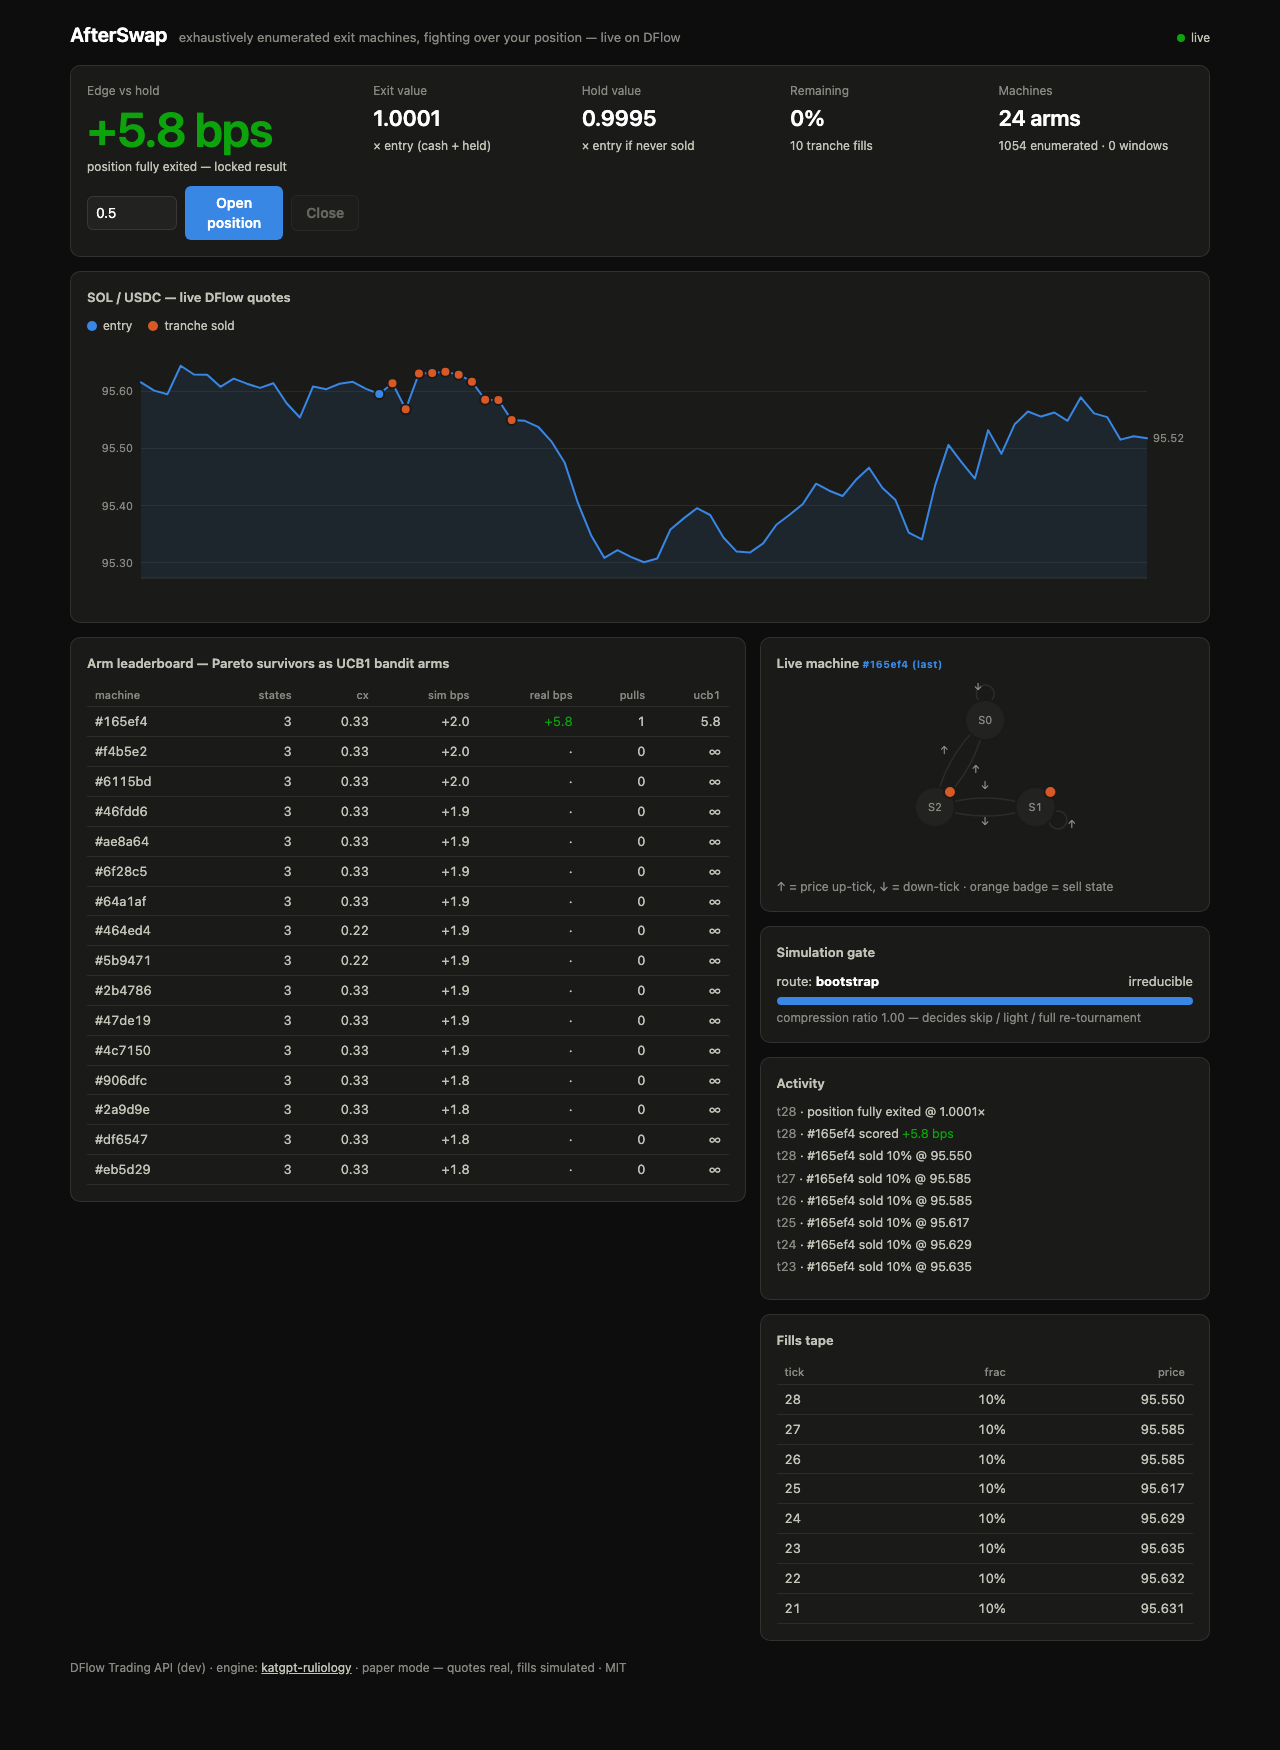
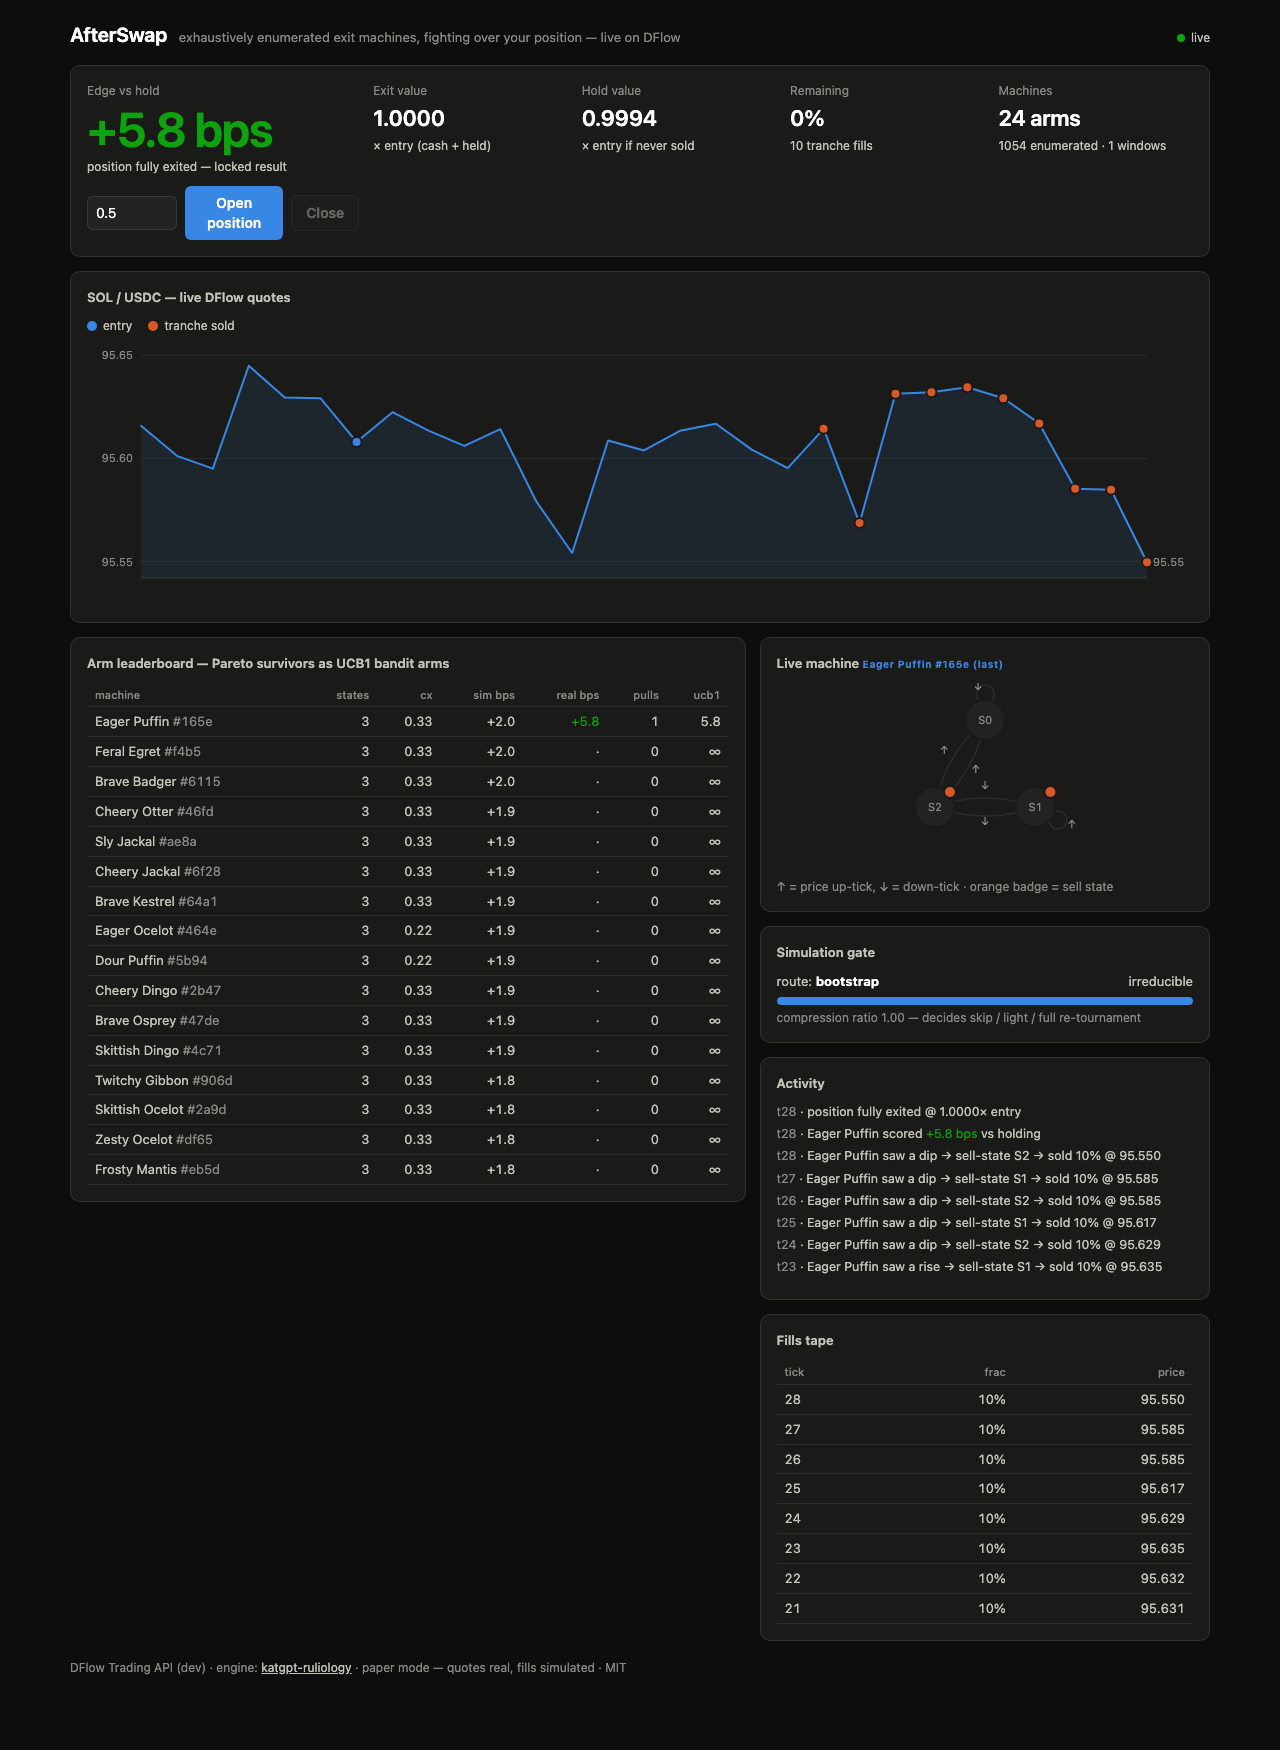
feat: named machines + plain-language feed — u64 ids as strings (JS precision fix)

diff --git a/web/index.html b/web/index.html
@@ -152,6 +152,7 @@
 <script>
 "use strict";
 const $ = (id) => document.getElementById(id);
+const hexTag = (idStr) => "#" + BigInt(idStr).toString(16).slice(0, 4);
 const fmt = (x, d = 4) => x == null ? "—" : x.toFixed(d);
 let last = null;
 
@@ -263,7 +264,7 @@ function renderBoard(s) {
       ? `<span class="${a.mean_reward_bps >= 0 ? "up" : "down"}">${a.mean_reward_bps >= 0 ? "+" : ""}${a.mean_reward_bps.toFixed(1)}</span>`
       : "·";
     return `<tr class="${live ? "live" : ""}">
-      <td>#${a.id.toString(16).slice(0, 6)}${a.generation > 0 ? ` <span class="chip ev">✦g${a.generation}</span>` : ""} ${live ? '<span class="chip">LIVE</span>' : ""}</td>
+      <td>${a.name} <span style="color:var(--muted)">${hexTag(a.id)}</span>${a.generation > 0 ? ` <span class="chip ev">✦g${a.generation}</span>` : ""} ${live ? '<span class="chip">LIVE</span>' : ""}</td>
       <td>${a.n_states}</td>
       <td>${a.complexity.toFixed(2)}</td>
       <td>${a.sim_edge_bps >= 0 ? "+" : ""}${a.sim_edge_bps.toFixed(1)}</td>
@@ -291,7 +292,7 @@ function renderFsm(s) {
   const armIdx = s.live_arm ?? s.last_arm;
   const arm = s.arms.find(a => a.index === armIdx);
   $("livechip").textContent = arm
-    ? `#${arm.id.toString(16).slice(0, 6)}${s.live_arm == null ? " (last)" : ""}` : "";
+    ? `${arm.name} ${hexTag(arm.id)}${s.live_arm == null ? " (last)" : ""}` : "";
   if (!arm) { svg.innerHTML = `<text x="${W / 2}" y="${H / 2}" text-anchor="middle">no machine driving yet</text>`; return; }
   const n = arm.n_states, cx = W / 2, cy = H / 2, R = n === 1 ? 0 : 58;
   const pos = Array.from({ length: n }, (_, i) => {
@@ -341,25 +342,25 @@ function renderGate(s) {
 }
 
 function feedLine(te, s) {
-  const e = te.event, armId = (i) => {
+  const e = te.event, armName = (i) => {
     const a = s.arms.find(x => x.index === i);
-    return a ? `#${a.id.toString(16).slice(0, 6)}` : `arm ${i}`;
+    return a ? a.name : `machine ${i}`;
   };
   switch (e.type) {
     case "tournament":
-      return `tournament (${e.route}): ${e.strategies} machines → ${e.arms} arms`;
+      return `tournament (${e.route}): ${e.strategies} machines fought → ${e.arms} got seats`;
     case "arm_selected":
-      return `${armId(e.arm)} takes the seat`;
+      return `<b>${e.name}</b> takes the seat`;
     case "window_closed": {
       const r = e.reward_bps, cls = r >= 0 ? "up" : "down";
-      return `${armId(e.arm)} scored <span class="${cls}">${r >= 0 ? "+" : ""}${r.toFixed(1)} bps</span>`;
+      return `${armName(e.arm)} scored <span class="${cls}">${r >= 0 ? "+" : ""}${r.toFixed(1)} bps</span> vs holding`;
     }
     case "tranche_filled":
-      return `${armId(e.arm)} sold ${(e.frac * 100).toFixed(0)}% @ ${e.price.toFixed(3)}`;
+      return `${armName(e.arm)} saw a ${e.input === 1 ? "rise" : "dip"} → sell-state S${e.state} → sold ${(e.frac * 100).toFixed(0)}% @ ${e.price.toFixed(3)}`;
     case "evolved":
-      return `✦ evolved gen${e.generation}: #${e.parent_id.toString(16).slice(0, 6)} → #${e.child_id.toString(16).slice(0, 6)} (${e.sim_edge_bps >= 0 ? "+" : ""}${e.sim_edge_bps.toFixed(1)} bps sim)`;
+      return `✦ ${e.parent_name} bred <b>${e.child_name}</b> (gen ${e.generation}, ${e.sim_edge_bps >= 0 ? "+" : ""}${e.sim_edge_bps.toFixed(1)} bps sim)`;
     case "position_closed":
-      return `position fully exited @ ${e.final_value_norm.toFixed(4)}×`;
+      return `position fully exited @ ${e.final_value_norm.toFixed(4)}× entry`;
     default:
       return e.type;
   }

diff --git a/crates/afterswap-engine/src/bandit.rs b/crates/afterswap-engine/src/bandit.rs
@@ -18,7 +18,10 @@ pub struct ExitBandit {
 #[derive(Debug, Clone, Serialize)]
 pub struct ArmSnapshot {
     pub index: usize,
-    pub id: u64,
+    /// Decimal string — u64 ids overflow JS number precision.
+    pub id: String,
+    /// Deterministic human name derived from the id.
+    pub name: String,
     pub n_states: u8,
     pub transitions: Vec<[u8; 2]>,
     pub outputs: Vec<u8>,
@@ -95,7 +98,8 @@ impl ExitBandit {
                 let n = s.n_states() as usize;
                 ArmSnapshot {
                     index: i,
-                    id: s.id(),
+                    id: s.id().to_string(),
+                    name: machine_name(s.id()),
                     n_states: s.n_states(),
                     transitions: s.transitions()[..n].to_vec(),
                     outputs: s.outputs()[..n].to_vec(),
@@ -109,4 +113,24 @@ impl ExitBandit {
             })
             .collect()
     }
+}
+
+/// Deterministic human-friendly machine name from the FSM id.
+/// 32×32 = 1,024 combos; the UI appends a short hex tag for uniqueness.
+pub fn machine_name(id: u64) -> String {
+    const ADJ: [&str; 32] = [
+        "Patient", "Jumpy", "Stoic", "Greedy", "Cautious", "Bold", "Sleepy", "Twitchy",
+        "Calm", "Feral", "Humble", "Sly", "Steady", "Nervous", "Brave", "Quiet",
+        "Eager", "Grumpy", "Gentle", "Rowdy", "Prudent", "Wily", "Sturdy", "Skittish",
+        "Cheery", "Dour", "Nimble", "Stubborn", "Mellow", "Zesty", "Frosty", "Sunny",
+    ];
+    const ANIMAL: [&str; 32] = [
+        "Mantis", "Otter", "Falcon", "Badger", "Gecko", "Heron", "Wombat", "Lynx",
+        "Puffin", "Marmot", "Viper", "Ibis", "Stoat", "Tapir", "Osprey", "Newt",
+        "Quokka", "Shrike", "Beetle", "Civet", "Dingo", "Egret", "Ferret", "Gibbon",
+        "Hornet", "Jackal", "Kestrel", "Lemur", "Magpie", "Numbat", "Ocelot", "Pangolin",
+    ];
+    let adj = ADJ[(id % 32) as usize];
+    let animal = ANIMAL[((id >> 8) % 32) as usize];
+    format!("{adj} {animal}")
 }

diff --git a/crates/afterswap-engine/src/engine.rs b/crates/afterswap-engine/src/engine.rs
@@ -36,6 +36,10 @@ pub enum EngineEvent {
         price: f64,
         frac: f64,
         remaining: f64,
+        /// FSM state after the transition that emitted this sell.
+        state: u8,
+        /// Tick direction the machine saw: 1 = up, 0 = down/flat.
+        input: u8,
     },
     /// The live evaluation window closed; the driving arm was rewarded.
     WindowClosed {
@@ -44,8 +48,13 @@ pub enum EngineEvent {
         pulls: u32,
     },
     /// A new arm took over the live position.
-    ArmSelected { arm: usize, fsm_id: u64 },
-    Evolved { parent_id: u64, child_id: u64, generation: u32, sim_edge_bps: f64 },
+    ArmSelected { arm: usize, fsm_id: u64, name: String },
+    Evolved {
+        parent_name: String,
+        child_name: String,
+        generation: u32,
+        sim_edge_bps: f64,
+    },
     /// A (re-)tournament ran and the arm set was rebuilt.
     Tournament {
         route: String,
@@ -373,8 +382,8 @@ impl ExitEngine {
             child.id()
         );
         Some(EngineEvent::Evolved {
-            parent_id,
-            child_id: child.id(),
+            parent_name: crate::bandit::machine_name(parent_id),
+            child_name: crate::bandit::machine_name(child.id()),
             generation,
             sim_edge_bps: best_edge,
         })
@@ -566,6 +575,7 @@ impl ExitEngine {
             events.push(EngineEvent::ArmSelected {
                 arm,
                 fsm_id: bandit.strategy(arm).id(),
+                name: crate::bandit::machine_name(bandit.strategy(arm).id()),
             });
         }
 
@@ -589,6 +599,8 @@ impl ExitEngine {
                 price: cur_p,
                 frac,
                 remaining: pos.remaining_frac,
+                state: live.fsm.state(),
+                input,
             });
         }
 

diff --git a/docs/DEMO.md b/docs/DEMO.md
@@ -26,8 +26,11 @@ DFlow quote windows. A Pareto filter keeps 24; they become bandit arms."
 
 **0:40–1:20 — the fight.** Click **Open position**.
 "I just opened half a SOL, paper mode, priced by real DFlow quotes."
-Point at: FSM diagram ("this machine is driving — orange states sell"),
+Point at: FSM diagram ("this machine — it has a name, watch the feed —
+is driving; orange states sell"),
 first orange fill markers on the chart, fills tape ticking.
+Read one feed line out loud — "Eager Puffin saw a dip, moved to its sell
+state, sold 10%" — that's the whole explainability story in one sentence.
 "Every window, the machine's exit value is scored against doing nothing.
 Win → it keeps the seat. Lose → the bandit benches it." Point at leaderboard
 real-bps column updating.
